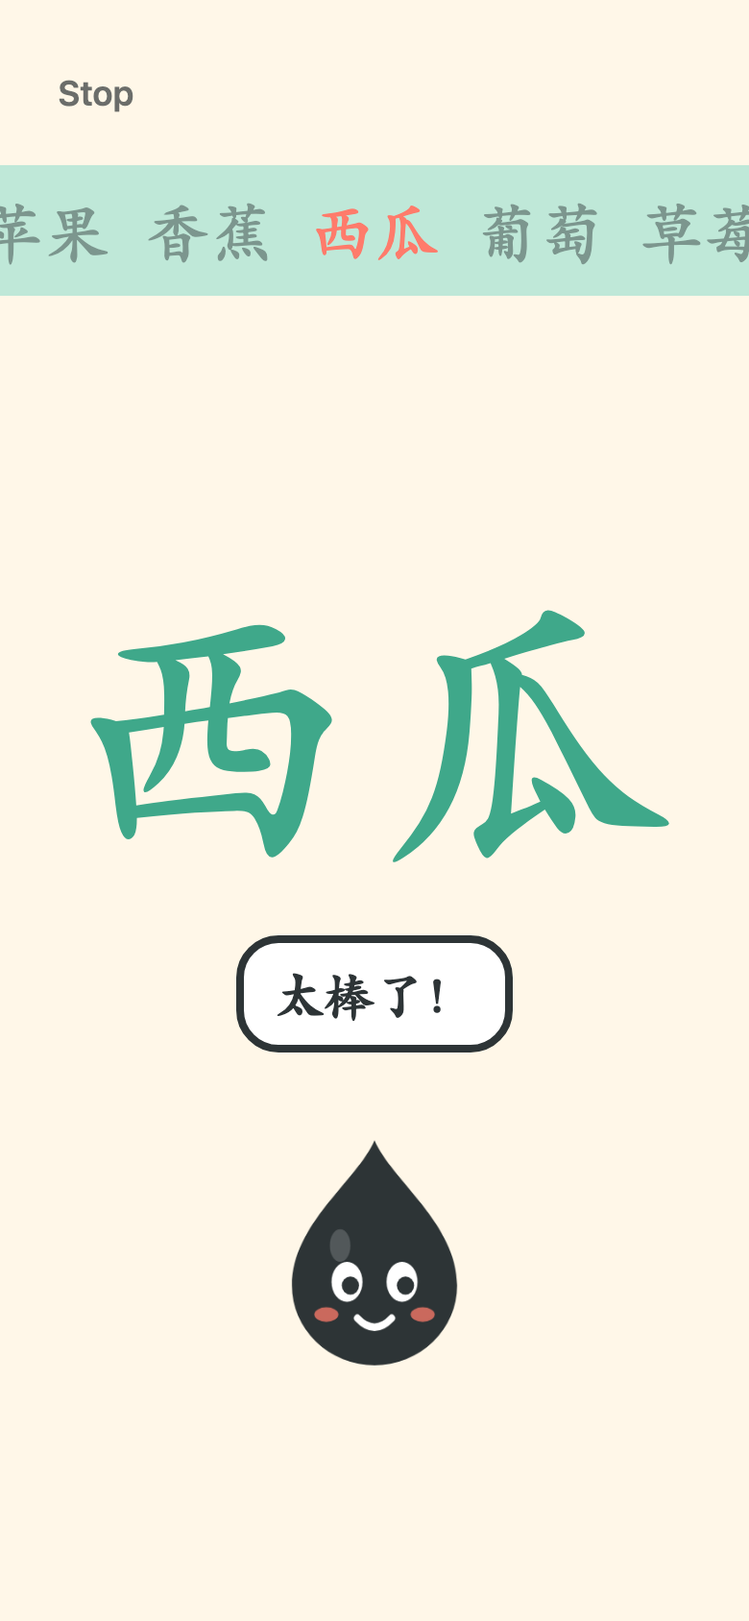
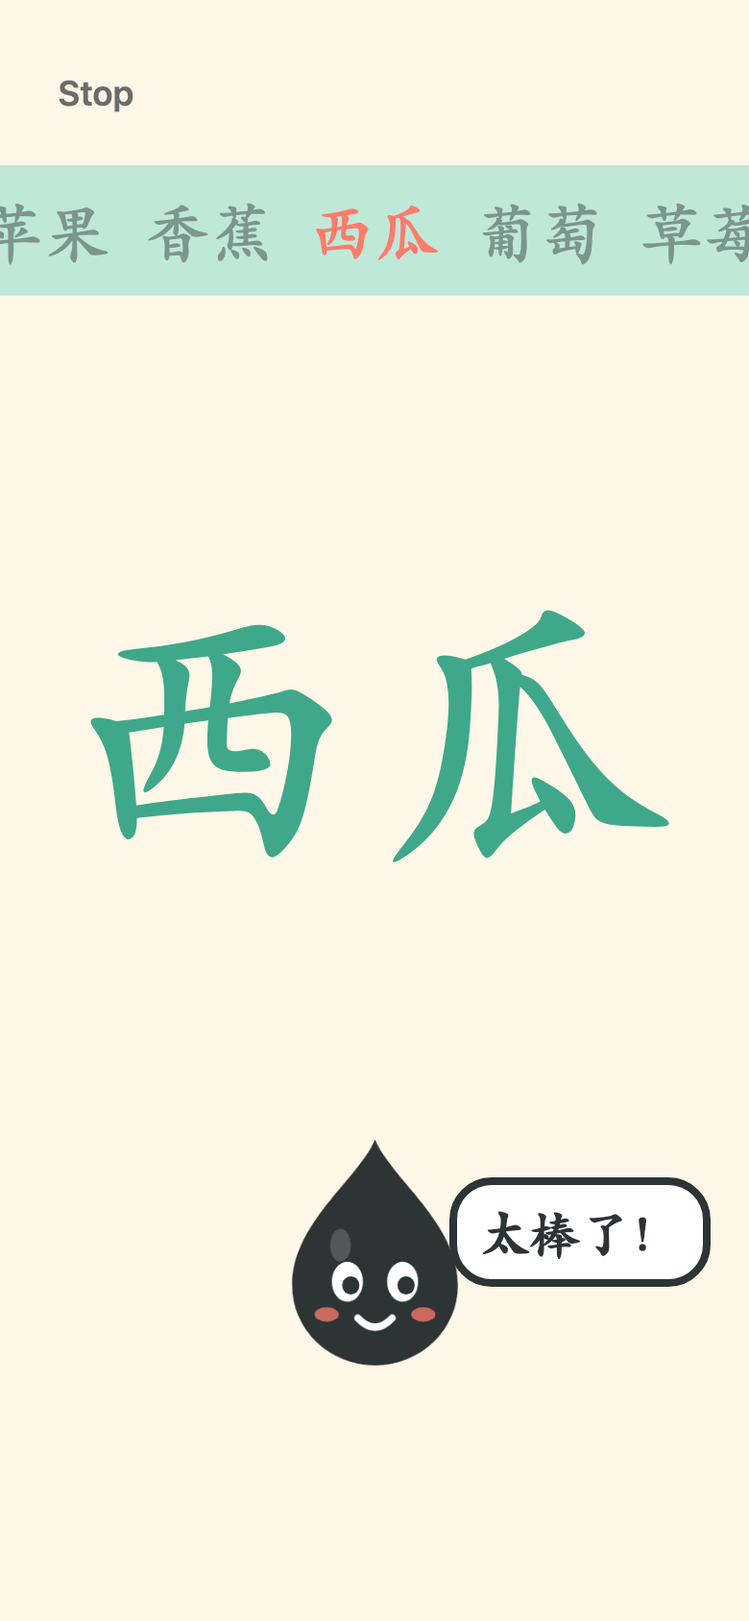
spike(momo-fun): final round - no crash on rotate after finish, balanced line splits, pinyin after leading text, 320px fit with real pinyin, cheer beside Momo, margin normalised (105 pass)

Changed region(s): [[0.5846, 0.7085, 0.9538, 0.8009], [0.3077, 0.5545, 0.7077, 0.6469]]

diff --git a/spikes/2026-09-28-momo-fun/teach-momo.html b/spikes/2026-09-28-momo-fun/teach-momo.html
@@ -44,14 +44,14 @@ textarea{min-height:220px;resize:vertical}
 .top{display:flex;justify-content:space-between;align-items:center;gap:8px}
 .count{background:var(--mint);border-radius:999px;padding:12px 18px;font:800 20px var(--ui)}
 .word-box{width:100%}
-.word{font:700 190px/1.1 var(--zh);text-align:center;margin:8px 0 0;letter-spacing:.04em;word-break:break-all;line-break:anywhere}
+.word{font:700 190px/1.1 var(--zh);text-align:center;margin:8px 0 0;letter-spacing:.04em;word-break:break-all;line-break:anywhere;text-wrap:balance}
 .stage{position:relative;flex:1;display:flex;flex-direction:column;align-items:center;justify-content:flex-end;min-height:0}
 .bubble{position:relative;background:var(--white);border:4px solid var(--ink);border-radius:26px;padding:calc(12px * var(--bs,1)) calc(22px * var(--bs,1));margin-bottom:calc(18px * var(--bs,1));
   text-align:center;min-width:150px;max-width:92%;opacity:0;transform:scale(.6);transition:opacity .2s,transform .25s cubic-bezier(.3,1.6,.5,1)}
 .bubble.show{opacity:1;transform:scale(1)}
 .bubble[hidden]{display:none}
 .bubble:after{content:"";position:absolute;left:50%;bottom:-18px;margin-left:-14px;border:14px solid transparent;border-top:18px solid var(--ink);border-bottom:0}
-.bubble .zh{font:700 56px/1.1 var(--zh);word-break:break-all;line-break:anywhere}
+.bubble .zh{font:700 56px/1.1 var(--zh);word-break:break-all;line-break:anywhere;text-wrap:balance}
 .bubble .py{font:600 calc(24px * var(--bs,1))/1.2 var(--ui);color:var(--mint-deep);margin-top:4px}
 .bubble .say{font:800 calc(30px * var(--bs,1))/1.2 var(--ui)}
 .momo-wrap{width:var(--momo,200px);height:var(--momo,200px);position:relative;flex:none}
@@ -157,10 +157,12 @@ function parseList(text){
     // Pair each Chinese word with the pinyin that follows it BEFORE looking at separators,
     // so tab columns (Sheets, Excel), CSV and "苹果/píngguǒ" all keep their pinyin.
     // Lines that start with pinyin ("píngguǒ 苹果 xiāngjiāo 香蕉") give each word the pinyin BEFORE it; otherwise the pinyin after it.
-    var toks = line.match(TOKEN) || [], before = toks.length && !HAN.test(toks[0]) && isPinyin(toks[0]);
+    // (Other text before the first word or pinyin, like "a)" or "Lesson 3:", is ignored for this.)
+    var toks = (line.match(TOKEN) || []).filter(function(t){ return HAN.test(t) || isPinyin(t); });
+    var before = toks.length > 0 && !HAN.test(toks[0]);
     var items = [], pending = [];
     toks.forEach(function(t){
-      if (HAN.test(t)){ items.push({ zh: t, py: before ? pending : [] }); pending = []; }
+      if (HAN.test(t)){ items.push({ zh: t, py: pending }); pending = []; }
       else if (isPinyin(t)){ if (before || !items.length) pending.push(t); else items[items.length - 1].py.push(t); }
     });
     if (pending.length && items.length && !items[items.length - 1].py.length) items[items.length - 1].py = pending;
@@ -185,6 +187,7 @@ function charCount(s){ return Array.from(s).length; }
 // (at most maxPerLine characters a line) and caps the element width so the lines come out even.
 // Words of up to ONE_LINE_UP_TO characters never wrap. Returns null when the box has no room at all:
 // callers shrink their other parts first (see layout()) and only then fall back to the smallest size.
+// The element also needs CSS text-wrap:balance so a word split over lines comes out even (3/2/2, not 3/3/1).
 var ONE_LINE_UP_TO = 3, SMALLEST_PX = 14;
 function fitWord(text, boxW, boxH, maxPx, maxPerLine){
   if (!(boxW > 0) || !(boxH > 0)) return null;
@@ -253,11 +256,18 @@ function layout(){
   document.documentElement.style.setProperty("--momo", momo + "px");
   document.documentElement.style.setProperty("--bs", (room / CONFIG.bubbleSpacePx).toFixed(3));
   if (words[idx]) applyFit($("word"), words[idx].zh, $("word-box").clientWidth, wordHeight(momo, room), CONFIG.wordMaxPx, CONFIG.maxCharsPerLine);
-  var z = $("bubble").querySelector(".zh");
-  if (z && !$("bubble").hidden){
-    var bs = room / CONFIG.bubbleSpacePx, w = words[idx];
-    var zhH = room - (18 + 32) * bs - 8 - (w.py ? 34 * bs : 0);   // bubble room minus tail, padding, border and pinyin line
-    applyFit(z, w.zh, $("stage").clientWidth * 0.92 - 52 * bs - 8, zhH, CONFIG.bubbleMaxPx, CONFIG.maxCharsPerLine);
+  var z = $("bubble").querySelector(".zh"), w = words[idx];
+  if (z && !$("bubble").hidden && w){                 // no current word once the round is finished
+    var bs = room / CONFIG.bubbleSpacePx;
+    var py = $("bubble").querySelector(".py"), zhW = $("stage").clientWidth * 0.92 - 52 * bs - 8;
+    // bubble room minus tail, padding, border and the pinyin as it really wraps (long pinyin can take 2-3 lines)
+    var zhH = room - (18 + 32) * bs - 8 - (py ? py.offsetHeight + 4 : 0);
+    applyFit(z, w.zh, zhW, zhH, CONFIG.bubbleMaxPx, CONFIG.maxCharsPerLine);
+    // still too tall (very long pinyin on a small phone): shrink the pinyin, then refit the word
+    for (var k = 0; k < 6 && py && $("bubble").offsetHeight + 18 * bs > room; k++){
+      py.style.fontSize = Math.max(12, parseFloat(getComputedStyle(py).fontSize) * 0.85) + "px";
+      applyFit(z, w.zh, zhW, room - (18 + 32) * bs - 8 - py.offsetHeight - 4, CONFIG.bubbleMaxPx, CONFIG.maxCharsPerLine);
+    }
   }
 }
 function act(icon, label, coral){ setBtn($("act"), icon, label); $("act").classList.toggle("coral", !!coral); }
@@ -300,6 +310,7 @@ $("act").onclick = function(){
   if (phase === "gotit"){
     idx++;
     if (idx < words.length) return loadWord();
+    bubble("");
     $("done-title").textContent = learned === 1 ? "Momo learned the word!" : "Momo learned all " + learned + " words!";
     $("learned").innerHTML = words.map(function(w){ return "<span>" + esc(w.zh) + "</span>"; }).join("");
     show("s-done");

diff --git a/spikes/2026-09-28-momo-fun/karaoke-blanks.html b/spikes/2026-09-28-momo-fun/karaoke-blanks.html
@@ -54,7 +54,7 @@ textarea{min-height:170px}
 .strip span.now{opacity:1;color:var(--mint-deep)}
 .strip span.gap{color:var(--coral)}
 .stage{flex:1;display:flex;flex-direction:column;align-items:center;justify-content:center;min-height:0;width:100%}
-.kword{font:700 170px/1.15 var(--zh);letter-spacing:.04em;text-align:center;max-width:100%;word-break:break-all;line-break:anywhere}
+.kword{font:700 170px/1.15 var(--zh);letter-spacing:.04em;text-align:center;max-width:100%;word-break:break-all;line-break:anywhere;text-wrap:balance}
 .kword span{color:var(--ink)}
 /* Sweep runs character by character, so a word that wraps onto two lines still lights up in reading order */
 .kword.sing span{background:linear-gradient(90deg,var(--coral) 0 50%,var(--ink) 50% 100%) 100% 0/200% 100% no-repeat;
@@ -75,9 +75,11 @@ textarea{min-height:170px}
 .momo{animation:sway 1.4s ease-in-out infinite alternate}
 .momo-wrap.cheer .momo{animation:jump .6s cubic-bezier(.3,1.8,.5,1) 3}
 .momo-wrap.shouting .m-happy{opacity:0}.momo-wrap.shouting .m-o{opacity:1}
-.cheer-bubble{background:var(--white);border:4px solid var(--ink);border-radius:22px;padding:8px 16px;font:800 26px var(--zh);opacity:0;transform:translateX(-50%) scale(.5);
-  transition:all .25s cubic-bezier(.3,1.6,.5,1);position:absolute;left:50%;bottom:calc(var(--momo-row,130px) + 50px);white-space:nowrap;transform-origin:50% 100%}
-.cheer-bubble.show{opacity:1;transform:translateX(-50%) scale(1)}
+/* Cheer sits beside Momo, inside Momo's row, so it never covers the word that was just revealed */
+.cheer-bubble{background:var(--white);border:4px solid var(--ink);border-radius:22px;padding:6px 12px;font:800 clamp(16px,calc(var(--momo-row,130px) * .2),26px) var(--zh);
+  opacity:0;transform:scale(.5);transition:all .25s cubic-bezier(.3,1.6,.5,1);position:absolute;left:calc(50% + var(--momo-row,130px) * .3);
+  bottom:calc(var(--momo-row,130px) * .45);white-space:nowrap;transform-origin:0 100%}
+.cheer-bubble.show{opacity:1;transform:scale(1)}
 @keyframes sway{from{transform:rotate(-6deg)}to{transform:rotate(6deg)}}
 @keyframes jump{40%{transform:translateY(-40px) scale(.94,1.08)}70%{transform:translateY(0) scale(1.1,.9)}}
 .done-title{font:800 34px/1.2 var(--ui);text-align:center;margin:40px 0 10px}
@@ -169,10 +171,12 @@ function parseList(text){
     // Pair each Chinese word with the pinyin that follows it BEFORE looking at separators,
     // so tab columns (Sheets, Excel), CSV and "苹果/píngguǒ" all keep their pinyin.
     // Lines that start with pinyin ("píngguǒ 苹果 xiāngjiāo 香蕉") give each word the pinyin BEFORE it; otherwise the pinyin after it.
-    var toks = line.match(TOKEN) || [], before = toks.length && !HAN.test(toks[0]) && isPinyin(toks[0]);
+    // (Other text before the first word or pinyin, like "a)" or "Lesson 3:", is ignored for this.)
+    var toks = (line.match(TOKEN) || []).filter(function(t){ return HAN.test(t) || isPinyin(t); });
+    var before = toks.length > 0 && !HAN.test(toks[0]);
     var items = [], pending = [];
     toks.forEach(function(t){
-      if (HAN.test(t)){ items.push({ zh: t, py: before ? pending : [] }); pending = []; }
+      if (HAN.test(t)){ items.push({ zh: t, py: pending }); pending = []; }
       else if (isPinyin(t)){ if (before || !items.length) pending.push(t); else items[items.length - 1].py.push(t); }
     });
     if (pending.length && items.length && !items[items.length - 1].py.length) items[items.length - 1].py = pending;
@@ -197,6 +201,7 @@ function charCount(s){ return Array.from(s).length; }
 // (at most maxPerLine characters a line) and caps the element width so the lines come out even.
 // Words of up to ONE_LINE_UP_TO characters never wrap. Returns null when the box has no room at all:
 // callers shrink their other parts first (see layout()) and only then fall back to the smallest size.
+// The element also needs CSS text-wrap:balance so a word split over lines comes out even (3/2/2, not 3/3/1).
 var ONE_LINE_UP_TO = 3, SMALLEST_PX = 14;
 function fitWord(text, boxW, boxH, maxPx, maxPerLine){
   if (!(boxW > 0) || !(boxH > 0)) return null;
@@ -298,7 +303,8 @@ function layout(){
   if (need > 0){ strip = Math.max(CONFIG.minStripFontPx, strip - need); root.setProperty("--strip-font", strip + "px"); }
   var h = wordHeight(), shout = Math.max(16, Math.min(CONFIG.shoutFontPx, Math.round(h * 0.16)));
   root.setProperty("--shout-font", shout + "px");
-  root.setProperty("--gap-h", Math.max(32, Math.min(CONFIG.gapBoxMaxPx, window.innerWidth * 0.36, h - shout * 1.2 - 14)) + "px");
+  var shoutH = $("stage").querySelector(".shout").offsetHeight || Math.ceil(shout * 1.2 * 2);   // the shout line can wrap on a narrow phone
+  root.setProperty("--gap-h", Math.max(28, Math.min(CONFIG.gapBoxMaxPx, window.innerWidth * 0.36, h - shoutH - 18)) + "px");
   if (words[idx] && playing) applyFit($("kword"), words[idx].zh, $("stage").clientWidth, h, CONFIG.wordMaxPx, CONFIG.maxCharsPerLine);
   if (playing) moveStrip();
 }

diff --git a/spikes/2026-09-28-momo-fun/comic-bubbles.html b/spikes/2026-09-28-momo-fun/comic-bubbles.html
@@ -179,10 +179,12 @@ function parseList(text){
     // Pair each Chinese word with the pinyin that follows it BEFORE looking at separators,
     // so tab columns (Sheets, Excel), CSV and "苹果/píngguǒ" all keep their pinyin.
     // Lines that start with pinyin ("píngguǒ 苹果 xiāngjiāo 香蕉") give each word the pinyin BEFORE it; otherwise the pinyin after it.
-    var toks = line.match(TOKEN) || [], before = toks.length && !HAN.test(toks[0]) && isPinyin(toks[0]);
+    // (Other text before the first word or pinyin, like "a)" or "Lesson 3:", is ignored for this.)
+    var toks = (line.match(TOKEN) || []).filter(function(t){ return HAN.test(t) || isPinyin(t); });
+    var before = toks.length > 0 && !HAN.test(toks[0]);
     var items = [], pending = [];
     toks.forEach(function(t){
-      if (HAN.test(t)){ items.push({ zh: t, py: before ? pending : [] }); pending = []; }
+      if (HAN.test(t)){ items.push({ zh: t, py: pending }); pending = []; }
       else if (isPinyin(t)){ if (before || !items.length) pending.push(t); else items[items.length - 1].py.push(t); }
     });
     if (pending.length && items.length && !items[items.length - 1].py.length) items[items.length - 1].py = pending;
@@ -207,6 +209,7 @@ function charCount(s){ return Array.from(s).length; }
 // (at most maxPerLine characters a line) and caps the element width so the lines come out even.
 // Words of up to ONE_LINE_UP_TO characters never wrap. Returns null when the box has no room at all:
 // callers shrink their other parts first (see layout()) and only then fall back to the smallest size.
+// The element also needs CSS text-wrap:balance so a word split over lines comes out even (3/2/2, not 3/3/1).
 var ONE_LINE_UP_TO = 3, SMALLEST_PX = 14;
 function fitWord(text, boxW, boxH, maxPx, maxPerLine){
   if (!(boxW > 0) || !(boxH > 0)) return null;
@@ -254,10 +257,11 @@ var $ = function(id){ return document.getElementById(id); };
 var words = [], fills = [], sel = 0, nBubbles = 0, longOk = false;
 function show(id){ document.querySelectorAll(".screen").forEach(function(s){ s.classList.toggle("on", s.id === id); }); }
 function bubblePx(w){ var n = charCount(w); for (var i = 0; i < CONFIG.bubbleFonts.length; i++) if (n <= CONFIG.bubbleFonts[i].upTo) return CONFIG.bubbleFonts[i].px; return 18; }
-function inches(v){ var m = /([\d.]+)\s*(in|mm|cm)/.exec(v) || [0, 0.5, "in"]; return +m[1] / ({ in: 1, mm: 25.4, cm: 2.54 })[m[2]]; }
+// Accepts "0.5in", "1 in", "12mm", "2.5 cm"; anything else falls back to half an inch. Always written back as inches.
+function inches(v){ var m = /([\d.]+)\s*(in|mm|cm)/i.exec(String(v)) || [0, 0.5, "in"]; return +m[1] / ({ in: 1, mm: 25.4, cm: 2.54 })[m[2].toLowerCase()]; }
 function setPaper(size){
   var panelIn = (CONFIG.paperHeightIn[size] - 2 * inches(CONFIG.printMargin) - CONFIG.printTitleIn) / CONFIG.panels.length - 0.05;
-  $("page-size").textContent = "@page{size:" + size + ";margin:" + CONFIG.printMargin + "}" +
+  $("page-size").textContent = "@page{size:" + size + ";margin:" + inches(CONFIG.printMargin).toFixed(3) + "in}" +
     "@media print{#strip .panel{height:" + panelIn.toFixed(2) + "in}}";
   document.querySelectorAll("#paper button").forEach(function(x){ x.setAttribute("aria-pressed", x.dataset.size === size); });
 }

diff --git a/spikes/2026-09-28-momo-fun/check.py b/spikes/2026-09-28-momo-fun/check.py
@@ -11,6 +11,10 @@ SHOTS = HERE / "shots"; SHOTS.mkdir(exist_ok=True)
 TMP = pathlib.Path(tempfile.mkdtemp(prefix="momo-check-"))
 STUB = ("if(window.speechSynthesis){speechSynthesis.speak=function(){}};"
         "HTMLMediaElement.prototype.play=function(){return Promise.resolve()};")
+# Real words with real pinyin, 2 to 12 characters, for the screen-fit checks
+LADDER = ("苹果 píngguǒ\n谢谢你 xièxie nǐ\n一石二鸟 yī shí èr niǎo\n巧克力蛋糕 qiǎokèlì dàngāo\n我们一起去公园 wǒmen yìqǐ qù gōngyuán\n"
+          "我今天很高兴见到你 wǒ jīntiān hěn gāoxìng jiàndào nǐ\n我们明天一起去动物园 wǒmen míngtiān yìqǐ qù dòngwùyuán\n"
+          "我们明天早上一起去动物园 wǒmen míngtiān zǎoshang yìqǐ qù dòngwùyuán")
 FRUIT = "1. 苹果 píngguǒ apple\n2. 香蕉 xiāngjiāo banana\n3、西瓜 (xīguā) watermelon\n4) 葡萄 - pútao - grapes\n草莓, 橙子\n"
 LONG = "一石二鸟\n生日快乐\n你好\n谢谢你\n对不起\n巧克力蛋糕\n"
 PHONE = {"width": 390, "height": 844}; LAPTOP = {"width": 1280, "height": 800}
@@ -47,6 +51,9 @@ PARSER_CASES = [
     ("草莓, 橙子", [["草莓", ""], ["橙子", ""]]),
     ("苹果 香蕉 píngguǒ xiāngjiāo", [["苹果", "píngguǒ"], ["香蕉", "xiāngjiāo"]]),
     ("píngguǒ 苹果 xiāngjiāo 香蕉", [["苹果", "píngguǒ"], ["香蕉", "xiāngjiāo"]]),
+    ("apple píngguǒ 苹果", [["苹果", "píngguǒ"]]),
+    ("a) píngguǒ 苹果", [["苹果", "píngguǒ"]]),
+    ("Lesson 3: nǐ hǎo 你好", [["你好", "nǐ hǎo"]]),
     ("hello world", []),
     ("<img src=x onerror=alert(1)> 苹果 </button><script>x</script>", [["苹果", ""]]),
 ]
@@ -134,17 +141,17 @@ with sync_playwright() as p:
         q.context.close()
 
     # Teach Momo on landscape screens and a phone: 4, 5 and 9 character words through every step
-    for vw, vh in [(1280, 720), (1366, 768), (1280, 800), (390, 844)]:
+    for vw, vh in [(1280, 720), (1366, 768), (1280, 800), (390, 844), (320, 568), (430, 932), (820, 1180)]:
         q = page({"width": vw, "height": vh}); q.goto(url("teach-momo.html"))
-        q.fill("#paste", "1. 苹果\n2. 一石二鸟\n3. 巧克力蛋糕\n4. 我今天很高兴见到你\n5. 谢谢你"); q.click("#start"); probs = []
-        for _ in range(20):
+        q.fill("#paste", LADDER); q.click("#start"); probs = []
+        for _ in range(32):
             q.wait_for_timeout(400); probs += q.evaluate(TEACH_LAYOUT)
             if vw == 390 and q.inner_text("#word") == "巧克力蛋糕" and q.get_attribute("#momo", "data-mood") == "gotit":
                 q.wait_for_timeout(1200); q.screenshot(path=str(SHOTS / "teach-long-word.png"))
             if (vw, vh) == (1280, 720) and q.inner_text("#word") == "我今天很高兴见到你" and q.get_attribute("#momo", "data-mood") == "gotit":
                 q.wait_for_timeout(1200); q.screenshot(path=str(SHOTS / "teach-landscape-1280x720.png"))
             q.click("#act")
-        check(f"teach {vw}x{vh}: button, word and bubble all fit on screen, even lines, 2-3 characters on one line (2, 3, 4, 5, 9 characters, every step)", not probs, "; ".join(probs[:4]))
+        check(f"teach {vw}x{vh}: button, word and bubble with pinyin all fit on screen, even lines, 2-3 characters on one line (2 to 12 characters, every step)", not probs, "; ".join(probs[:4]))
         q.context.close()
 
     # Rotation in the middle of a round: phone upright -> sideways -> upright, at every step, every word
@@ -155,6 +162,9 @@ with sync_playwright() as p:
             q.set_viewport_size(vp); q.wait_for_timeout(450); probs += [f"{vp['width']}x{vp['height']} " + x for x in q.evaluate(TEACH_LAYOUT)]
         q.click("#act")
     check("teach: rotating the phone mid-round (844x390 and back) keeps button, word, bubble and Momo on screen at every step", not probs, "; ".join(probs[:4]))
+    n_err = len(errors); done = q.is_visible("#s-done")
+    for vp in [{"width": 844, "height": 390}, PHONE]: q.set_viewport_size(vp); q.wait_for_timeout(450)
+    check("teach: rotating after the last word is finished causes no error", done and len(errors) == n_err, "; ".join(errors[n_err:n_err + 2]) or f"end screen shown: {done}")
     q.context.close()
 
     # 4. Karaoke
@@ -195,14 +205,23 @@ with sync_playwright() as p:
       const m=document.querySelector('.momo-row').getBoundingClientRect();if(m.bottom>H+1)out.push('Momo off screen by '+Math.round(m.bottom-H));
       const b=document.getElementById('reveal').getBoundingClientRect();if(b.bottom>H+1)out.push('button off screen by '+Math.round(b.bottom-H));
       if(document.documentElement.scrollHeight>H+1)out.push('page scrolls');
+      const rows={};[...k.querySelectorAll('span')].forEach(s=>{const t=Math.round(s.getBoundingClientRect().top/4);rows[t]=(rows[t]||0)+1});
+      const n=Object.values(rows);if(!st.classList.contains('is-gap')&&n.length>1&&Math.max(...n)-Math.min(...n)>1)out.push('uneven lines '+n.join('/'));
+      const c=document.getElementById('cheer');if(c.classList.contains('show')){const a=c.getBoundingClientRect(),b=k.getBoundingClientRect();
+        if(Math.min(a.right,b.right)>Math.max(a.left,b.left)&&Math.min(a.bottom,b.bottom)>Math.max(a.top,b.top))out.push('cheer covers the word')}
       if(!st.classList.contains('is-gap')&&k.textContent.length<=3&&new Set([...k.querySelectorAll('span')].map(s=>Math.round(s.getBoundingClientRect().top))).size>1)out.push('short word split');
       return out.map(s=>k.textContent+(st.classList.contains('is-gap')?' [blank]':' [singing]')+': '+s)}"""
-    for vw, vh in [(1280, 720), (390, 844)]:
+    for vw, vh in [(1280, 720), (390, 844), (320, 568), (430, 932), (820, 1180)]:
         q = page({"width": vw, "height": vh}); q.goto(url("karaoke-blanks.html"))
-        q.fill("#paste", "我今天很高兴见到你\n巧克力蛋糕\n你好"); q.click("#go"); q.evaluate("()=>{blanks={1:true}}"); q.click("#go")
-        q.wait_for_timeout(500); probs = q.evaluate(KAR_FIT)
-        q.wait_for_selector("#stage.is-gap", timeout=8000); q.wait_for_timeout(300); probs += q.evaluate(KAR_FIT)
-        check(f"karaoke {vw}x{vh}: 9-character word, Momo and the button stay on screen", not probs, "; ".join(probs))
+        q.fill("#paste", "谢谢你\n我们一起去公园\n我今天很高兴见到你\n我们明天一起去动物园\n巧克力蛋糕"); q.click("#go")
+        q.evaluate("()=>{blanks={1:true,3:true};CONFIG.speeds.slow=9000}"); q.click("[data-speed=slow]"); q.click("#go"); probs = []
+        for i in range(5):
+            q.wait_for_function(f"idx==={i}", timeout=20000); q.wait_for_timeout(450); probs += q.evaluate(KAR_FIT)
+            if i in (1, 3):
+                q.click("#reveal"); q.wait_for_timeout(700); probs += [x + " (revealed)" for x in q.evaluate(KAR_FIT)]
+                q.wait_for_function(f"idx==={i + 1}", timeout=5000)
+            else: q.evaluate("()=>{clearTimeout(timer);idx++;step()}")
+        check(f"karaoke {vw}x{vh}: 3 to 10 character words sung, blank and revealed: word, Momo, button on screen, even lines, cheer never over the word", not probs, "; ".join(probs[:4]))
         q.context.close()
     q = page(PHONE); q.goto(url("karaoke-blanks.html"))
     q.fill("#paste", "谢谢你\n我今天很高兴见到你\n巧克力蛋糕\n你好"); q.click("#go")
@@ -214,6 +233,9 @@ with sync_playwright() as p:
             q.set_viewport_size(vp); q.wait_for_timeout(450); probs += [f"{vp['width']}x{vp['height']} " + x for x in q.evaluate(KAR_FIT)]
         if i < 2: q.evaluate("()=>{clearTimeout(timer);idx++;step()}")
     check("karaoke: rotating the phone mid-song (844x390 and back) keeps word, Momo and button on screen, 3 characters on one line (singing and blank)", not probs, "; ".join(probs[:4]))
+    q.evaluate("()=>{clearTimeout(timer);idx=words.length;step()}"); q.wait_for_selector("#s-done.on", timeout=5000); n_err = len(errors)
+    for vp in [{"width": 844, "height": 390}, PHONE]: q.set_viewport_size(vp); q.wait_for_timeout(450)
+    check("karaoke: rotating after the song is finished causes no error", len(errors) == n_err, "; ".join(errors[n_err:n_err + 2]))
     q.context.close()
     for vp_name, vp in [("phone", PHONE), ("laptop", LAPTOP)]:
         q = page(vp); q.goto(url("karaoke-blanks.html")); q.fill("#paste", LONG); q.click("#go")
@@ -269,7 +291,9 @@ with sync_playwright() as p:
     after = pg.eval_on_selector_all(".bubble", "e=>e.map(x=>x.textContent)")
     check("comic: after Shuffle a word tap changes the highlighted bubble only", after[0] == "香蕉" and after[1:] == before[1:], f"{before} -> {after}")
     check("comic: Shuffle and Print have icons", pg.locator("#shuffle svg.ic").count() == 1 and pg.locator("#print svg.ic").count() == 1)
-    pg.evaluate("()=>{CONFIG.printMargin='1in';setPaper('letter')}"); pg.emulate_media(media="print")
+    pg.evaluate("()=>{CONFIG.printMargin='1 in';setPaper('letter')}")
+    check("comic: a margin typed as '1 in' is written as valid CSS", "margin:1.000in" in pg.eval_on_selector("#page-size", "e=>e.textContent"), pg.eval_on_selector("#page-size", "e=>e.textContent"))
+    pg.emulate_media(media="print")
     pg.pdf(path=str(TMP / "comic-1in.pdf"), prefer_css_page_size=True, print_background=True); pg.emulate_media(media="screen")
     check("comic: a 1 inch print margin still prints 1 Letter page", pages(TMP / "comic-1in.pdf") == 1, f"{pages(TMP / 'comic-1in.pdf')} pages")
     pg.evaluate("()=>{CONFIG.printMargin='0.5in'}")

diff --git a/spikes/2026-09-28-momo-fun/BUILD-REPORT.md b/spikes/2026-09-28-momo-fun/BUILD-REPORT.md
@@ -38,9 +38,9 @@ Paste reader: pairs each Chinese word with the pinyin that follows it before loo
 | `comic-print-letter.png`, `comic-print-a4.png` | print | Printed page, 1 page each |
 | `review-board.png` | 1280 | The review board (first round) |
 
-## Verified by the committed check (`python3 check.py`, 93 PASS, 0 FAIL; full list in `check-receipt.txt`)
+## Verified by the committed check (`python3 check.py`, 105 PASS, 0 FAIL; full list in `check-receipt.txt`)
 
-Headless Chromium through Python Playwright, phone 320x568, 390x844 and turned sideways (844x390, rotated in the middle of a round), laptop 1280x800, 1280x720 and 1366x768, sound stubbed.
+Headless Chromium through Python Playwright, phones 320x568, 390x844, 430x932 and turned sideways (844x390, rotated in the middle of a round), tablet 820x1180, laptops 1280x720, 1280x800 and 1366x768, sound stubbed. Teach and Karaoke fit checks use real words of 2 to 12 characters with real pinyin.
 
 | Area | What is checked | Grade |
 |---|---|---|
@@ -94,10 +94,22 @@ Not verified (C): real phones and tablets, Safari/iOS (including Safari's suppor
 | Impossible height budget treated as valid | `fitWord` returns nothing for a box with no height or width; on a short screen Momo shrinks first, then the bubble room (Teach) or lyric strip (Karaoke), and only then the word takes the smallest size; line limit of 0 is treated as 1 |
 | Short-word boundary | Words of up to 3 characters never wrap; check.py tests 2 and 3 characters in Teach, Karaoke and the fit function |
 
+## Round 5 fixes (final round: Codex round 4 and Claude round 3)
+
+| Reviewer item | Fix |
+|---|---|
+| Crash when the screen turns after the last word (Codex) | Teach only refits the bubble while there is a current word, and the bubble is cleared on the end screen; Karaoke only refits while a song is playing. check.py rotates after the final word and after the song ends and asserts no error; the Teach check fails on the previous build |
+| Lopsided wrapped words (3/3/1) | Words split over lines are balanced (CSS `text-wrap: balance`, so 7 characters come out 3/2/2). Supported in current Chrome and Safari 17.5+; older browsers fall back to the old split (C) |
+| Pinyin lost when text comes before it (`a) píngguǒ 苹果`, `Lesson 3: nǐ hǎo 你好`) | The reader ignores other text when deciding which side the pinyin is on; all three copies identical; 3 cases added |
+| 320x568: button pushed off by long pinyin (Teach) and on every blank (Karaoke) | Teach measures the pinyin as it really wraps and shrinks it if the bubble would still be too tall; Karaoke sizes the blank box from what is left after the shout line; 320x568, 430x932 and 820x1180 added to the fit checks |
+| Margin typed as "1 in" | Normalised to valid CSS inches |
+| Cheer bubble covered the revealed word | Cheer now sits beside Momo; check.py asserts it never overlaps the word |
+
 ## Open questions for JJ
 
 1. Kid-facing English: keep plain-English buttons with pictures, or move kid screens to Chinese or pictures only?
 2. Teach Momo: Momo is confused exactly once per word, then gets it. Vary it? (`CONFIG.triesBeforeGotIt`)
 3. Karaoke works on single words, so it reads like a word parade, not a song line. Add a sentence or chant field if kept?
 4. Comic: keep the invented coral friend, or a named second character?
+6. Should a 4-character idiom (一石二鸟) always stay on one line? Today it can split 2 over 2 on a big screen when that makes it larger.
 5. Momo's cheers mix Chinese (好棒！) and one English "Yes!". All Chinese?
